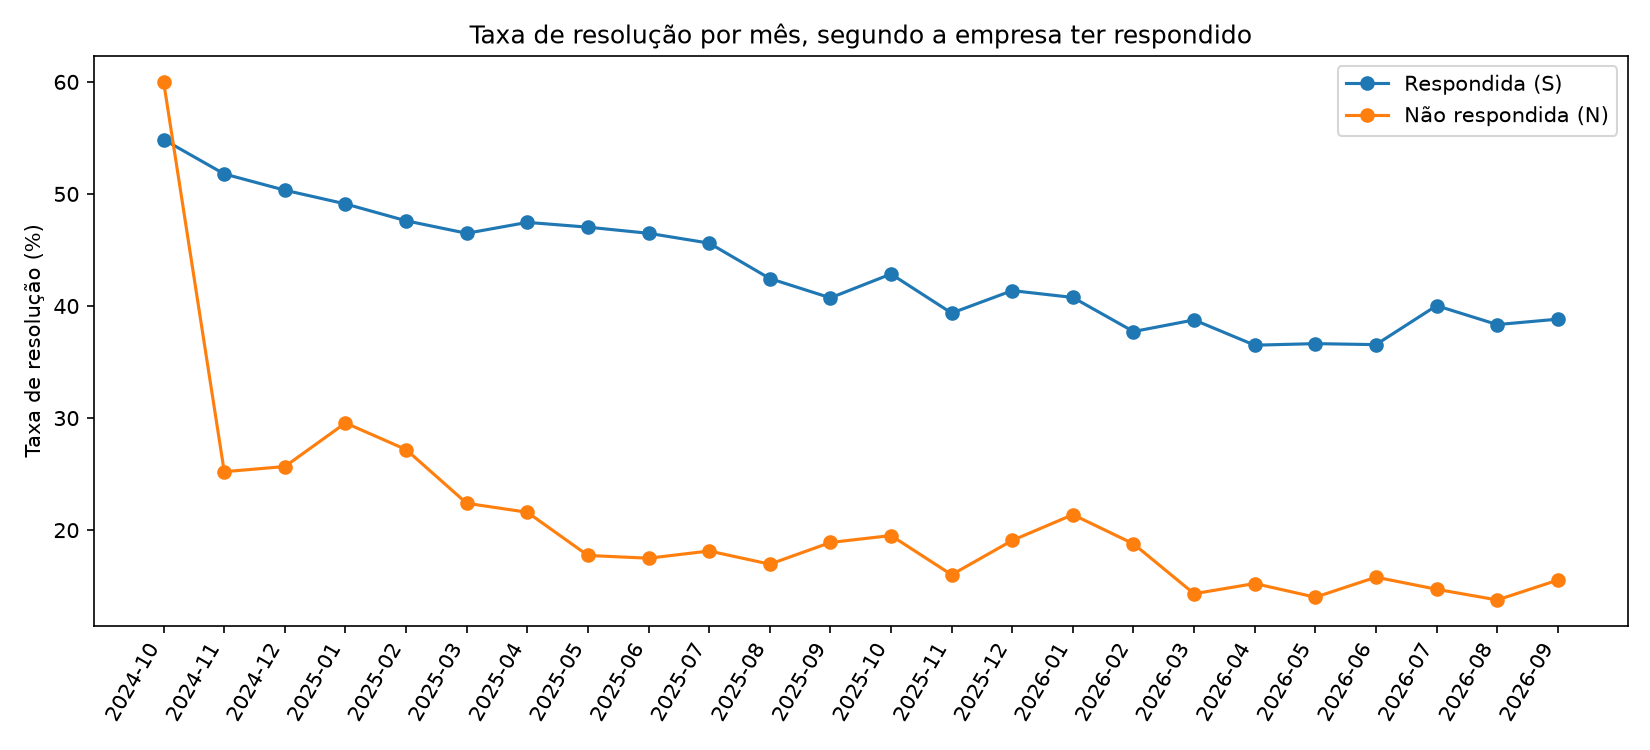
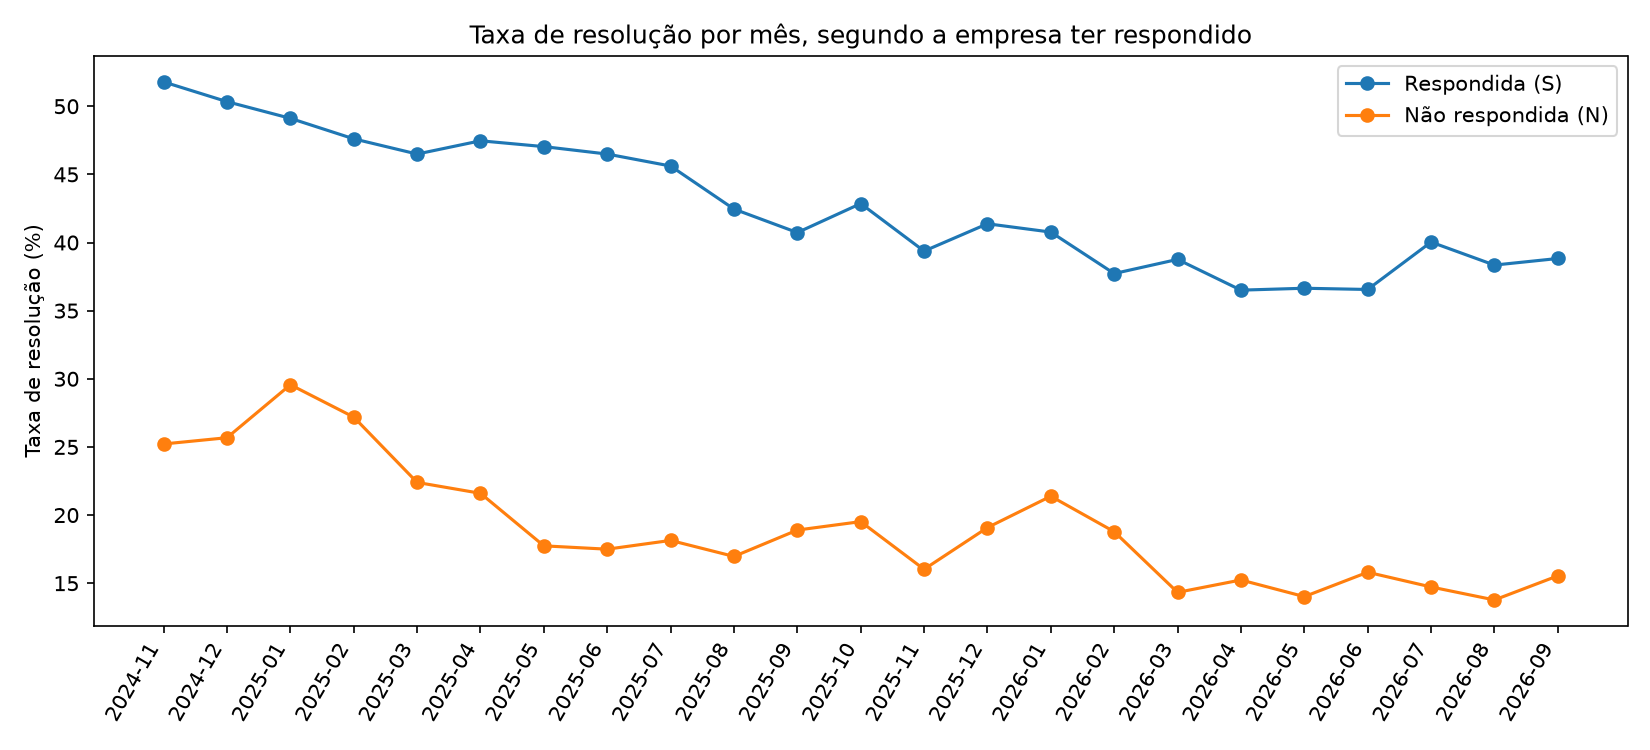
Feat: Pergunta 02 finalizada

diff --git a/src/pergunta_02/taxa_resolucao.py b/src/pergunta_02/taxa_resolucao.py
@@ -9,11 +9,16 @@ Etapas:
        Para cada estrato: odds ratio de Mantel-Haenszel, teste CMH, teste de
        heterogeneidade (Breslow-Day) e diferença padronizada em pontos percentuais
        (pesos = distribuição dos casos 'N': "se os N tivessem sido respondidos")
-    3. Gráficos: diferença por segmento e taxa S x N por mês
+    3. Decomposição da queda geral (mesmos recortes da pergunta 5, D-010): a taxa geral é
+       (1 - w) * taxa_S + w * taxa_N, com w = peso de N. Usa `decompor` da pergunta 5 com a
+       "entidade" sendo respondida = S ou N: o efeito DENTRO de cada grupo (a taxa do próprio
+       grupo mudou) vs. o MIX (o peso de N mudou). Reporta o mix com o peso do início e do fim.
+    4. Gráficos: diferença por segmento e taxa S x N por mês
 
 Saídas:
     outputs/pergunta_02/p02_segmentos.csv
     outputs/pergunta_02/p02_meses.csv
+    outputs/pergunta_02/p02_decomposicao.csv
     outputs/pergunta_02/p02_dif_por_segmento.png
     outputs/pergunta_02/p02_taxa_por_mes.png
 
@@ -30,6 +35,8 @@ from statsmodels.stats.contingency_tables import StratifiedTable
 from statsmodels.stats.proportion import proportion_confint
 
 from src.db import get_engine
+from src.pergunta_05.decomposicao import decompor
+from src.pergunta_05.evolucao import FIM_ATE, FIM_A_PARTIR, INICIO_ATE, INICIO_DE, JANELAS, inverter
 
 OUT = Path(__file__).resolve().parents[2] / "outputs" / "pergunta_02"
 OUT.mkdir(parents=True, exist_ok=True)
@@ -152,8 +159,54 @@ share_n["pct_N_das_avaliadas"] = (
 print("\n% de avaliadas que são 'N', por mês:")
 print(share_n["pct_N_das_avaliadas"].to_string())
 
+# ---------- 3) decomposição da queda geral: peso de N x taxa de cada grupo ----------
+def decompor_por_grupo(base, inicio_de, inicio_ate, fim_de, fim_ate):
+    """Mesma conta da pergunta 5 (`decompor`), com a entidade sendo respondida = S ou N.
+    dentro = mudança da taxa do próprio grupo; mix = mudança do peso de N na base."""
+    periodo = np.where(
+        base.ano_mes.between(inicio_de, inicio_ate), "inicio",
+        np.where(base.ano_mes.between(fim_de, fim_ate), "fim", ""),
+    )
+    b = base.assign(periodo=periodo)
+    g = (b[b.periodo != ""].groupby(["respondida", "periodo"])[["avaliadas", "resolvidas"]]
+         .sum().unstack("periodo", fill_value=0))
+    g.columns = [f"{a}_{p}" for a, p in g.columns]
+    w = g[["avaliadas_inicio", "resolvidas_inicio", "avaliadas_fim", "resolvidas_fim"]].astype(int)
+    t, r = decompor(w)
+    _, r_inv = decompor(inverter(w))  # inverte início e fim: repete a conta com o peso do fim
+    return w, t, r, r_inv
+
+
+linhas = []
+for nome, a, b, c, d in JANELAS:
+    w, t, r, r_inv = decompor_por_grupo(df, a, b, c, d)
+    v = r["variacao_pp"]
+    mix_ini, mix_fim = r["mix_pp"], -r_inv["mix_pp"]
+    linhas.append({
+        "janela": nome,
+        "taxa_inicio_%": r["taxa_inicio"] * 100,
+        "taxa_fim_%": r["taxa_fim"] * 100,
+        "variacao_pp": v,
+        "peso_N_inicio_%": w.loc["N", "avaliadas_inicio"] / w.avaliadas_inicio.sum() * 100,
+        "peso_N_fim_%": w.loc["N", "avaliadas_fim"] / w.avaliadas_fim.sum() * 100,
+        "dentro_S_pp": t.loc["S", "contrib_dentro_pp"],
+        "dentro_N_pp": t.loc["N", "contrib_dentro_pp"],
+        "mix_peso_inicio_pp": mix_ini,
+        "mix_peso_fim_pp": mix_fim,
+        "mix_%_da_variacao_min": min(mix_ini / v, mix_fim / v) * 100,
+        "mix_%_da_variacao_max": max(mix_ini / v, mix_fim / v) * 100,
+    })
+decomp = pd.DataFrame(linhas).round(2)
+pd.set_option("display.max_columns", None)
+pd.set_option("display.width", 250)
+pd.set_option("display.max_colwidth", 60)
+print("\nDecomposição da queda geral: efeito do peso de N (mix) vs. efeito dentro de S e de N")
+print("(dentro_S e dentro_N com o peso do início; mix com o peso do início e do fim)")
+print(decomp.to_string(index=False))
+
 # ---------- saídas ----------
-cols = ["avaliadas_S", "avaliadas_N", "taxa_S", "taxa_N", "dif_pp", "dif_inf", "dif_sup", "leitura"]
+decomp.to_csv(OUT / "p02_decomposicao.csv", index=False)
+cols =["avaliadas_S", "avaliadas_N", "taxa_S", "taxa_N", "dif_pp", "dif_inf", "dif_sup", "leitura"]
 seg.sort_values("dif_pp")[cols].round(4).to_csv(OUT / "p02_segmentos.csv")
 mes[cols].round(4).to_csv(OUT / "p02_meses.csv")
 
@@ -168,17 +221,18 @@ ax.errorbar(
 ax.axvline(0, linestyle="--", color="gray")
 ax.set_yticks(g1.index)
 ax.set_yticklabels(
-    [f"{s} (n_N={n:,})".replace(",", ".") for s, n in zip(g1["segmento_de_mercado"], g1["avaliadas_N"])],
+    [f"{s} (n_N={format(n, ',d').replace(',', '.')})" for s, n in zip(g1["segmento_de_mercado"], g1["avaliadas_N"])],
     fontsize=8,
 )
 ax.set_ylim(-1, len(g1))
-ax.set_xlabel("Taxa de resolução: respondida (S) menos não respondida (N), em pp, IC 95% (Newcombe)")
+ax.set_xlabel("Diferença na taxa de resolução, S − N (pp, IC 95%)")
 plt.tight_layout()
 plt.savefig(OUT / "p02_dif_por_segmento.png", dpi=150)
 plt.close()
 
 # ---------- gráfico 2: taxa S x N por mês ----------
 m = agrupar(df, ["ano_mes"])
+m = m[(m.avaliadas_S >= MIN_POR_GRUPO) & (m.avaliadas_N >= MIN_POR_GRUPO)]  # mesmo filtro do CSV (tira 2024-10)
 fig, ax = plt.subplots(figsize=(11, 5))
 ax.plot(m.index, m.resolvidas_S / m.avaliadas_S * 100, marker="o", label="Respondida (S)")
 ax.plot(m.index, m.resolvidas_N / m.avaliadas_N * 100, marker="o", label="Não respondida (N)")
@@ -190,4 +244,4 @@ plt.tight_layout()
 plt.savefig(OUT / "p02_taxa_por_mes.png", dpi=150)
 plt.close()
 
-print("\nGerados: p02_segmentos.csv, p02_meses.csv, p02_dif_por_segmento.png, p02_taxa_por_mes.png")
+print("\nGerados: p02_segmentos.csv, p02_meses.csv, p02_decomposicao.csv, p02_dif_por_segmento.png, p02_taxa_por_mes.png")

diff --git a/docs/notas.md b/docs/notas.md
@@ -19,7 +19,7 @@
 | # | Pergunta | Status |
 |---|----------|--------|
 | 1 | Quais segmentos têm menor/maior taxa de resolução? | concluida |
-| 2 | Quando a empresa responde, a resolução é maior? | pendente |
+| 2 | Quando a empresa responde, a resolução é maior? | concluida |
 | 3 | O tempo de resposta se associa à resolução? | pendente |
 | 4 | Ter procurado a empresa antes muda a chance de resolução? | pendente |
 | 5 | Como a taxa evolui mês a mês? | concluida | |
@@ -57,6 +57,37 @@
 - Segmentos com poucas avaliações (ex.: Bares, 2 avaliações) ficam sem conclusão.
 - **Limitações:** período agregado (a taxa geral caiu ao longo do tempo, ver pergunta 5); só reclamações
   avaliadas; os intervalos não consideram que reclamações da mesma empresa são parecidas entre si.
+
+
+### P2 – Quando a empresa responde, a resolução é maior? (concluída)  
+
+* **Método:** Comparação entre a taxa de resolução (resolvidas / avaliadas) entre respondida = 'S' e 'N'.
+
+* **Gráficos:** `outputs/pergunta_02/p02_dif_por_segmento.png` e `outputs/pergunta_02/p02_taxa_por_mes.png`. 
+
+* **Tabelas** `outputs/pergunta_02/p02_decomposicao.csv`, `outputs/pergunta_02/p02_meses.csv` e `outputs/pergunta_02/p02_segmentos.csv`
+
+| Nível de controle | Diferença S − N | Odds ratio (MH) | Cobertura de N |
+| :--- | :---: | :---: | :---: |
+| Bruto | +24,0 pp (23,7 a 24,3) | n/a | 100% | 
+| Por mês | +23,2 pp | 3,24 | 100% |
+| Por segmento | +21,6 pp (−12,9 pp) | 3,17 | 99,9% |
+| segmento x mês | +20,6 pp (−12,9 pp) | 3,10 | 89% |
+| Por empresa | +18,5 pp | 2,75 (2,68 a 2,83) | 87,4% |
+
+* **Taxas brutas:** 41,7% de resolução quando respondida e 17,7% quando não respondida. As duas faixas de IC ficam bem longe uma da outra.
+* **Composição:** a diferença cai de 24,0 para 18,5 pp quando se compara dentro da mesma empresa. Ou seja, cerca de um quarto do gap bruto vem de os casos N estarem concentrados em empresas e segmentos com resolução mais baixa. Os ~18 pp restantes, e um odds ratio de ~2,8 a 3,2, não são explicados por isso.
+* **Tempo:** controlar por mês quase não muda nada (23,2 pp), o que confirma que a tendência de queda não explica a diferença.
+* **Cobertura:** o nível empresa cobre 87% dos casos N, porque exige no mínimo 30 casos em cada grupo. Vale dizer isso ao reportar os 18,5 pp.
+* **Heterogeneidade:** o p = 0 do Breslow-Day não surpreende com esse volume, e deve ser lido como p < 0,001. O que importa é que o efeito varia muito: de ~9 a ~52 pp por segmento. Em segmento × mês e em empresa, 68 e 54 estratos ficam inconclusivos, em sua maioria por pouco volume. Apenas 1 e 2 estratos têm N maior, o que reforça a consistência.
+Frase para o relatório: o odds ratio comum (~3) é uma média. Não deve ser lido como um efeito igual para todos.
+
+
+* **Resultado:** Entre as avaliadas, 41,7% dos casos respondidos foram resolvidos contra 17,7% dos não respondidos (+24,0 pp; IC 95% +23,7 a +24,3). Os casos N são 3,2% das avaliadas (59.931). Ao comparar dentro de estratos, a diferença se mantém: +23,2 pp por mês, +21,6 por segmento, +20,6 por segmento × mês e +18,5 por empresa (odds ratio de Mantel-Haenszel entre 2,75 e 3,24). Cerca de um quarto do gap bruto se deve à composição (N concentrado em empresas com resolução mais baixa). A diferença foi positiva em todos os 23 meses e em 38 dos 40 segmentos; as exceções foram Eletroeletrônicos (inconclusivo) e Químicos/Farmacêuticos (n pequeno). Há heterogeneidade importante (de ~9 a ~52 pp por segmento). 
+
+* **Limitação:** é uma associação, não um efeito causal, e o grupo N pode diferir em tipo de problema e perfil da empresa.
+
+* **OBS:** A queda geral da resolução (−13,7 pp no recorte padrão) não decorre do aumento do peso de N (de 1,3% para 3,5% das avaliadas): esse efeito explica ~4% da queda (1,5% a 4,4% nos 6 recortes), e ~95% ocorre dentro dos casos respondidos.
 
 ### Pergunta 5: evolução da taxa (concluído)
 - **Método:** recortes de 3 meses (out-dez/2024 e jul-set/2026), decomposição em dentro, mix, entrada e saída (ver D-010, D-011 e D-012). 

diff --git a/docs/decisoes.md b/docs/decisoes.md
@@ -109,13 +109,18 @@
 
 
 ## D-012 · Tratar entrada e saída de entidades em vez de descartá-las
-- **Data:**
+- **Data:** 07/11/2026
 - **Contexto:** O script original usava dropna() e descartava segmentos ausentes em um dos períodos. Entre empresas isso é comum (nos bancos, 106 entraram e 10 saíram entre os períodos).
 - **Decisão:** Classificar cada entidade como estável, entrou ou saiu, com entrada e saída como termos próprios da decomposição (função decompor em decomposicao.py, usada por segmentos e empresas). Wilson e Newcombe só para estáveis com pelo menos 30 avaliadas nos dois períodos (MIN_AVAL).
 - **Alternativas:** dropna() (a taxa geral passa a considerar só quem existe nos dois períodos); restringir a análise às empresas estáveis.
 - **Impacto:** As contribuições fecham com a variação observada (há um assert no código). Limite: empresa com volume minúsculo no início (ex.: 6 avaliadas) conta como estável, embora na prática seja entrante.
 
-
+## D-013 · Comparar respondidas e não respondidas dentro de estratos
+- **Data:** 11/11/2026
+- **Contexto:** Os casos N (3,2% das avaliadas) se concentram em segmentos e empresas com resolução mais baixa, então a diferença bruta (+24,0 pp) mistura efeito da resposta com composição. Também era preciso saber se a queda da taxa geral vem do aumento dos casos N.
+- **Decisão:** Reportar a diferença bruta (Wilson e Newcombe) e comparar dentro de estratos (segmento, mês, segmento × mês, empresa), com odds ratio de Mantel-Haenszel e diferença padronizada pelos pesos dos casos N. Entram só estratos com pelo menos 30 avaliadas em cada grupo (MIN_POR_GRUPO), o que cobre 87% dos casos N no nível empresa. Para a queda, reaproveitar decompor da P5 com a entidade sendo respondida = S ou N, nos mesmos recortes da D-010.
+- **Alternativas:** apenas a diferença bruta; regressão logística com efeitos fixos.
+- **Impacto:** A diferença cai de 24,0 para 18,5 pp (empresa) e o odds ratio fica entre 2,75 e 3,24. Na queda de −13,7 pp, o peso de N explica só 4% (1,5% a 4,4% nos 6 recortes); ~95% vem de dentro dos casos respondidos. A conclusão é uma associação, não causal, e a heterogeneidade entre estratos é grande (de ~9 a ~52 pp por segmento).
 
 
 ## D-00 · ---
